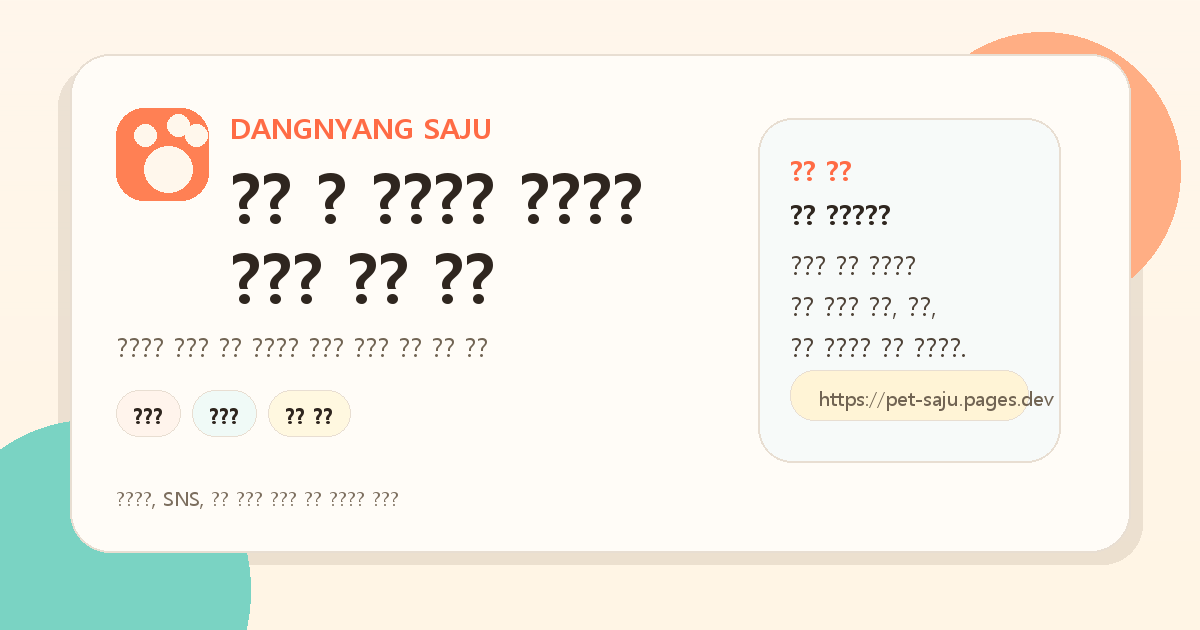
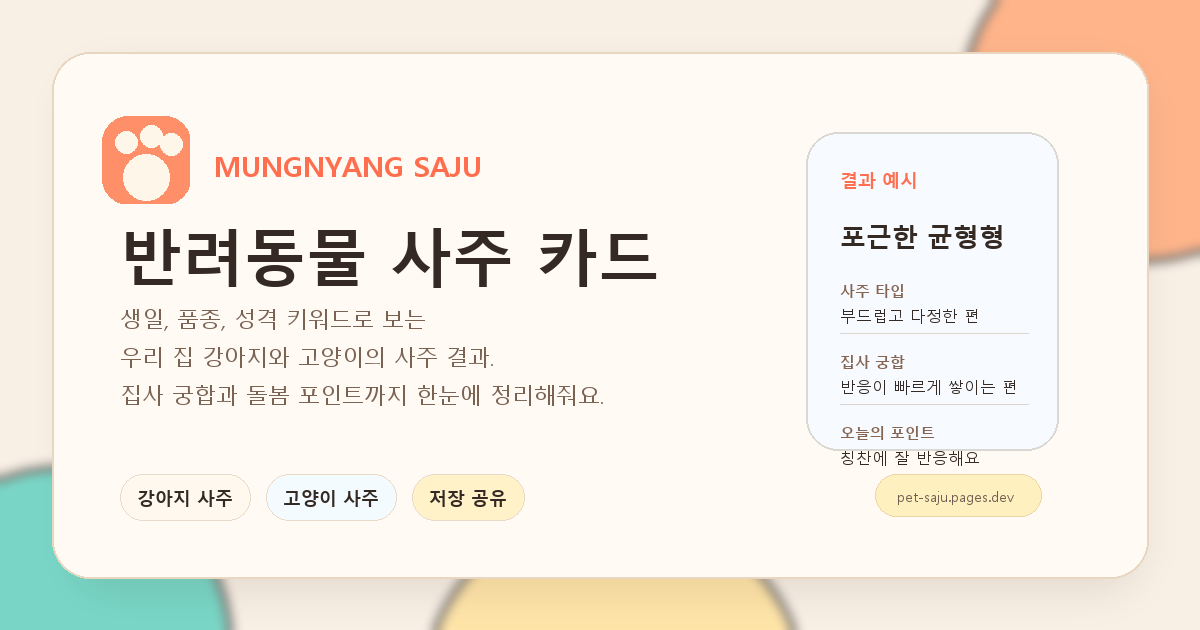
Refresh social preview copy and layout

diff --git a/index.html b/index.html
@@ -3,10 +3,10 @@
   <head>
     <meta charset="utf-8">
     <meta name="viewport" content="width=device-width, initial-scale=1">
-    <title>강아지 사주·고양이 사주 | 멍냥 사주 기질 카드</title>
+    <title>강아지 사주, 고양이 사주 보는 곳 | 멍냥 사주</title>
     <meta
       name="description"
-      content="강아지 사주, 고양이 사주를 생일과 성격 키워드로 바로 확인하세요. 반려동물 기질, 집사 궁합, 돌봄 포인트를 한 장 카드로 정리해줍니다."
+      content="생일, 품종, 성격 키워드로 우리 집 강아지와 고양이의 사주 결과를 바로 확인해보세요. 성향, 집사 궁합, 돌봄 포인트를 귀엽고 간단한 카드로 보여줘요."
     >
     <meta name="robots" content="index,follow,max-image-preview:large,max-snippet:-1,max-video-preview:-1">
     <meta name="google-site-verification" content="Ay43cVWuvvOAtx3hlSSoDwsYpM1bH_TDs_DNlmxPBRU">
@@ -14,19 +14,19 @@
     <meta property="og:type" content="website">
     <meta property="og:locale" content="ko_KR">
     <meta property="og:site_name" content="멍냥 사주">
-    <meta property="og:title" content="우리 집 강아지·고양이 사주, 지금 바로 뽑아보세요 | 멍냥 사주">
-    <meta property="og:description" content="생일, 품종, 성격 키워드만 넣으면 반려동물 기질과 집사 궁합이 바로 나와요. 저장하고 공유하기 좋은 카드형 결과.">
+    <meta property="og:title" content="우리 집 강아지·고양이 사주, 바로 뽑아보세요 | 멍냥 사주">
+    <meta property="og:description" content="생일, 품종, 성격 키워드만 넣으면 사주 결과와 집사 궁합을 카드로 바로 확인할 수 있어요. 저장해서 공유하기도 쉬워요.">
     <meta property="og:url" content="https://pet-saju.pages.dev/">
-    <meta property="og:image" content="https://pet-saju.pages.dev/social-preview-ko.png">
-    <meta property="og:image:secure_url" content="https://pet-saju.pages.dev/social-preview-ko.png">
+    <meta property="og:image" content="https://pet-saju.pages.dev/social-preview-mungnyang.png">
+    <meta property="og:image:secure_url" content="https://pet-saju.pages.dev/social-preview-mungnyang.png">
     <meta property="og:image:type" content="image/png">
     <meta property="og:image:width" content="1200">
     <meta property="og:image:height" content="630">
     <meta property="og:image:alt" content="멍냥 사주 링크 미리보기 이미지">
     <meta name="twitter:card" content="summary_large_image">
-    <meta name="twitter:title" content="우리 집 강아지·고양이 사주, 지금 바로 뽑아보세요 | 멍냥 사주">
-    <meta name="twitter:description" content="생일, 품종, 성격 키워드만 넣으면 반려동물 기질과 집사 궁합이 바로 나와요. 저장하고 공유하기 좋은 카드형 결과.">
-    <meta name="twitter:image" content="https://pet-saju.pages.dev/social-preview-ko.png">
+    <meta name="twitter:title" content="우리 집 강아지·고양이 사주, 바로 뽑아보세요 | 멍냥 사주">
+    <meta name="twitter:description" content="생일, 품종, 성격 키워드만 넣으면 사주 결과와 집사 궁합을 카드로 바로 확인할 수 있어요. 저장해서 공유하기도 쉬워요.">
+    <meta name="twitter:image" content="https://pet-saju.pages.dev/social-preview-mungnyang.png">
     <link rel="icon" href="./favicon.svg" type="image/svg+xml">
     <link rel="preconnect" href="https://fonts.googleapis.com">
     <link rel="preconnect" href="https://fonts.gstatic.com" crossorigin>
@@ -47,7 +47,7 @@
             "description": "강아지 사주와 고양이 사주를 생일과 성격 키워드로 가볍게 풀어보는 반려동물 성향 카드 사이트",
             "logo": {
               "@type": "ImageObject",
-              "url": "https://pet-saju.pages.dev/social-preview-ko.png"
+              "url": "https://pet-saju.pages.dev/social-preview-mungnyang.png"
             }
           },
           {

diff --git a/translations.js b/translations.js
@@ -7,11 +7,11 @@
   },
   uiCopy: {
     ko: {
-      pageTitle: "강아지 사주·고양이 사주 | 멍냥 사주 기질 카드",
-      pageDescription: "강아지 사주, 고양이 사주를 생일과 성격 키워드로 바로 확인하세요. 반려동물 기질, 집사 궁합, 돌봄 포인트를 한 장 카드로 정리해줍니다.",
+      pageTitle: "강아지 사주, 고양이 사주 보는 곳 | 멍냥 사주",
+      pageDescription: "생일, 품종, 성격 키워드로 우리 집 강아지와 고양이의 사주 결과를 바로 확인해보세요. 성향, 집사 궁합, 돌봄 포인트를 귀엽고 간단한 카드로 보여줘요.",
       ogSiteName: "멍냥 사주",
-      ogTitle: "우리 집 강아지·고양이 사주, 지금 바로 뽑아보세요 | 멍냥 사주",
-      ogDescription: "생일, 품종, 성격 키워드만 넣으면 반려동물 기질과 집사 궁합이 바로 나와요. 저장하고 공유하기 좋은 카드형 결과.",
+      ogTitle: "우리 집 강아지·고양이 사주, 바로 뽑아보세요 | 멍냥 사주",
+      ogDescription: "생일, 품종, 성격 키워드만 넣으면 사주 결과와 집사 궁합을 카드로 바로 확인할 수 있어요. 저장해서 공유하기도 쉬워요.",
       ogImageAlt: "멍냥 사주 링크 미리보기 이미지",
       fallbackGuardian: "집사",
       brand: { aria: "멍냥 사주", subtitle: "강아지와 고양이를 위한 사주 카드", chip: "강아지 · 고양이" },
@@ -122,11 +122,11 @@
       }
     },
     en: {
-      pageTitle: "Dog & Cat Saju | Mungnyang Vibe Card",
-      pageDescription: "Check your dog or cat's vibe card from birthday and temperament hints. Natural tendencies, human chemistry, and care cues come together in one quick read.",
+      pageTitle: "Dog & Cat Saju Readings | Mungnyang Saju",
+      pageDescription: "Check your dog's or cat's saju result from birthday, breed, and temperament hints. Natural tendencies, chemistry, and care cues come together in one simple card.",
       ogSiteName: "Mungnyang Saju",
-      ogTitle: "Try your dog's or cat's vibe card now | Mungnyang Saju",
-      ogDescription: "Add birthday, breed, and temperament hints to get a shareable pet vibe card with chemistry and lucky cues.",
+      ogTitle: "Try your dog's or cat's saju now | Mungnyang Saju",
+      ogDescription: "Add birthday, breed, and temperament hints to get a shareable pet saju result card with chemistry and care cues.",
       ogImageAlt: "Mungnyang Saju social preview image",
       fallbackGuardian: "Guardian",
       brand: { aria: "Mungnyang Saju", subtitle: "Playful saju cards for dogs and cats", chip: "Dogs · Cats" },
@@ -237,11 +237,11 @@
       }
     },
     ja: {
-      pageTitle: "わんこ・にゃんこサジュ | 멍냥 사주 気質カード",
-      pageDescription: "誕生日や性格キーワードから、うちの子の気質や相性、お世話のヒントを一枚のカードで気軽にチェックできます。",
+      pageTitle: "わんこ・にゃんこサジュを見るなら | 멍냥 사주",
+      pageDescription: "誕生日、品種、性格キーワードから、うちの子のサジュ結果や相性、お世話のヒントをすぐにチェックできます。",
       ogSiteName: "멍냥 사주",
-      ogTitle: "うちの子のサジュ風カードを今すぐチェック | 멍냥 사주",
-      ogDescription: "誕生日、品種、性格キーワードを入れると、気質や相性をかわいく整理したカードがすぐ見られます。",
+      ogTitle: "うちの子のサジュを今すぐチェック | 멍냥 사주",
+      ogDescription: "誕生日、品種、性格キーワードを入れると、サジュ結果や相性をカードですぐに確認できます。",
       ogImageAlt: "멍냥 사주 のリンクプレビュー画像",
       fallbackGuardian: "保護者",
       brand: { aria: "멍냥 사주", subtitle: "わんこ・にゃんこのためのサジュ風カード", chip: "わんこ · にゃんこ" },
